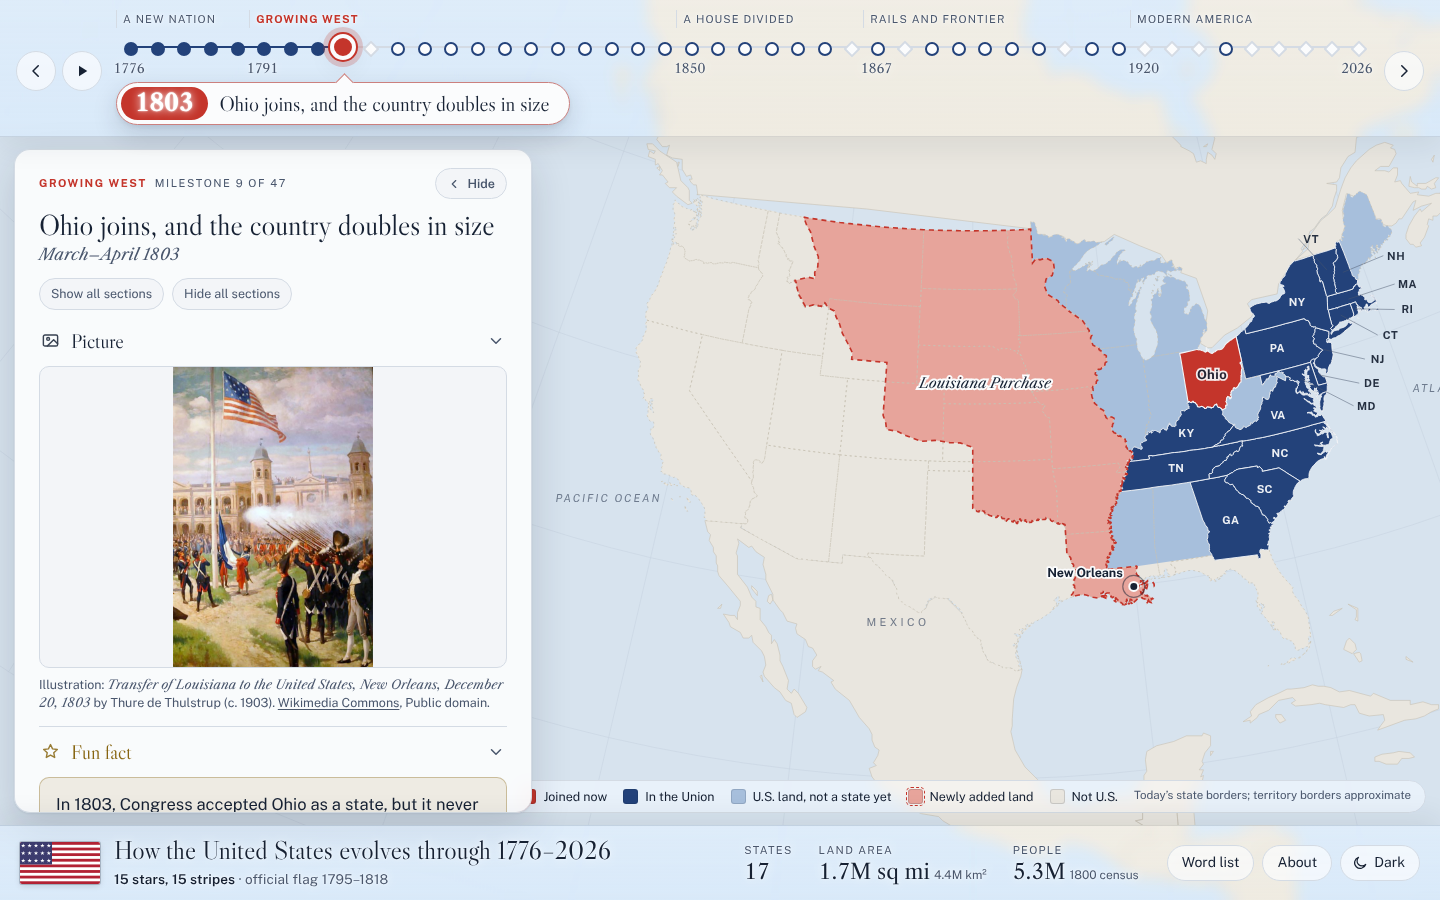
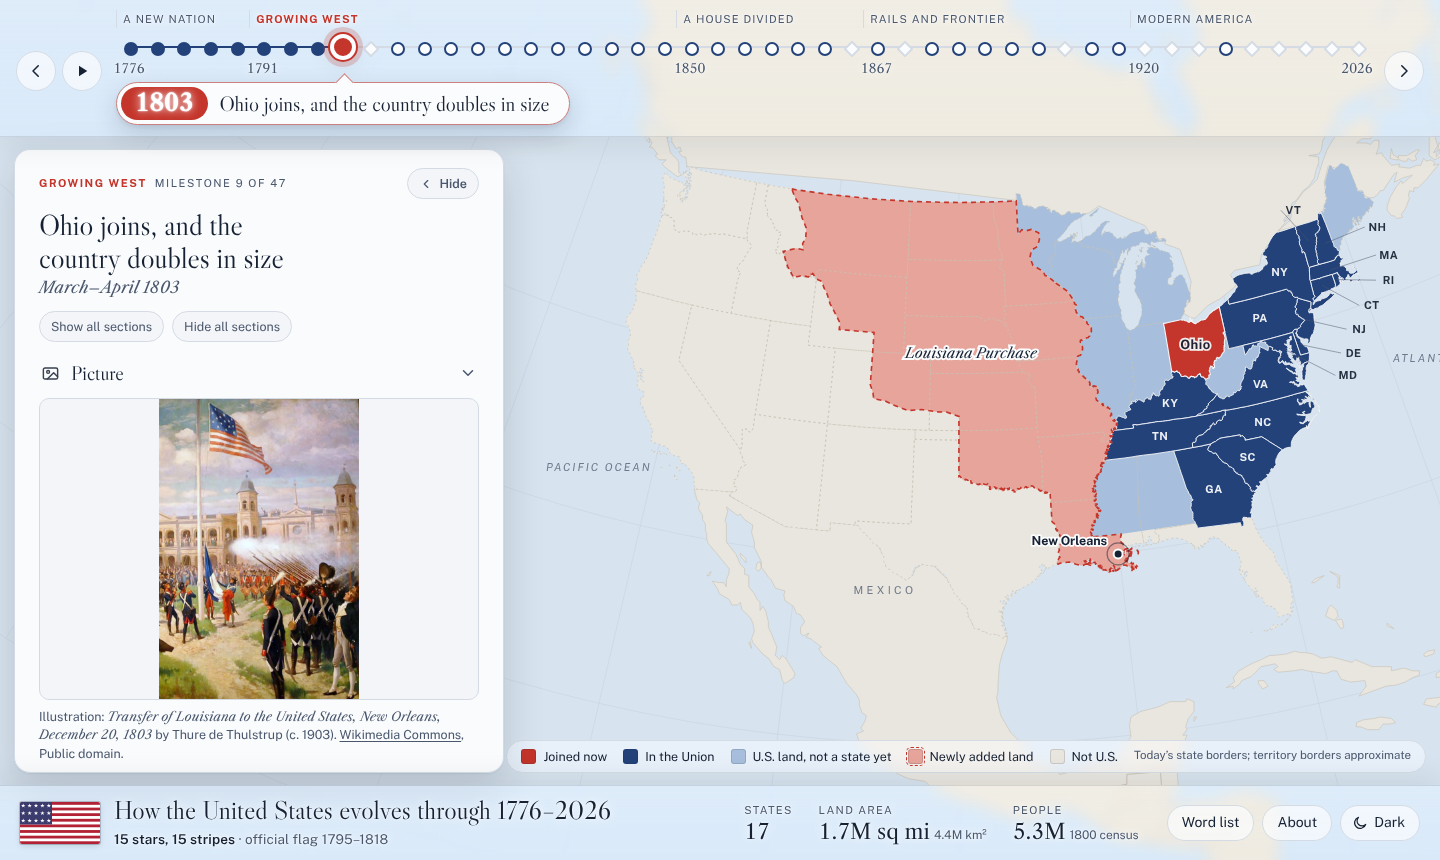
Keep the map key clear of the reading column
The column's padding was not counted in its width, so the right-aligned
map key could slide under it. Count the column's full width so the key
always stays to its right.

Claude-Session: https://claude.ai/code/session_019zRrgJDS26ZMEPvqq3vbkH

diff --git a/build/app.html b/build/app.html
@@ -183,7 +183,7 @@ a { color: inherit; }
 
 .legend {
   position: absolute; right: max(14px, env(safe-area-inset-right, 0px)); bottom: calc(var(--bot-h, 80px) + 12px); z-index: 2;
-  max-width: calc(100% - min(468px, 36vw) - 48px); width: max-content;
+  max-width: calc(100% - min(490px, 37vw) - 42px); width: max-content;
   background: color-mix(in srgb, var(--sheet) 55%, transparent); -webkit-backdrop-filter: blur(7px) saturate(1.6); backdrop-filter: blur(7px) saturate(1.6);
   border: 1px solid var(--rule); border-radius: 999px; padding: 6px 14px;
   display: flex; flex-wrap: wrap; justify-content: center; gap: 4px 16px; font-size: 12.5px;
@@ -208,7 +208,7 @@ a { color: inherit; }
 .story {
   position: absolute; z-index: 4; left: max(14px, env(safe-area-inset-left, 0px));
   top: calc(var(--top-h, 130px) + 12px); bottom: calc(var(--bot-h, 80px) + 12px);
-  width: min(468px, 36vw); overflow-y: auto; overscroll-behavior: contain; scroll-behavior: smooth;
+  box-sizing: border-box; width: min(490px, 37vw); overflow-y: auto; overscroll-behavior: contain; scroll-behavior: smooth;
   background: color-mix(in srgb, var(--sheet) 94%, transparent); -webkit-backdrop-filter: blur(10px); backdrop-filter: blur(10px);
   border: 1px solid var(--rule); border-radius: 16px;
   box-shadow: 0 1px 2px rgb(22 33 51 / .06), 0 14px 40px rgb(22 33 51 / .16);

diff --git a/index.html b/index.html
@@ -189,7 +189,7 @@ a { color: inherit; }
 
 .legend {
   position: absolute; right: max(14px, env(safe-area-inset-right, 0px)); bottom: calc(var(--bot-h, 80px) + 12px); z-index: 2;
-  max-width: calc(100% - min(468px, 36vw) - 48px); width: max-content;
+  max-width: calc(100% - min(490px, 37vw) - 42px); width: max-content;
   background: color-mix(in srgb, var(--sheet) 55%, transparent); -webkit-backdrop-filter: blur(7px) saturate(1.6); backdrop-filter: blur(7px) saturate(1.6);
   border: 1px solid var(--rule); border-radius: 999px; padding: 6px 14px;
   display: flex; flex-wrap: wrap; justify-content: center; gap: 4px 16px; font-size: 12.5px;
@@ -214,7 +214,7 @@ a { color: inherit; }
 .story {
   position: absolute; z-index: 4; left: max(14px, env(safe-area-inset-left, 0px));
   top: calc(var(--top-h, 130px) + 12px); bottom: calc(var(--bot-h, 80px) + 12px);
-  width: min(468px, 36vw); overflow-y: auto; overscroll-behavior: contain; scroll-behavior: smooth;
+  box-sizing: border-box; width: min(490px, 37vw); overflow-y: auto; overscroll-behavior: contain; scroll-behavior: smooth;
   background: color-mix(in srgb, var(--sheet) 94%, transparent); -webkit-backdrop-filter: blur(10px); backdrop-filter: blur(10px);
   border: 1px solid var(--rule); border-radius: 16px;
   box-shadow: 0 1px 2px rgb(22 33 51 / .06), 0 14px 40px rgb(22 33 51 / .16);
